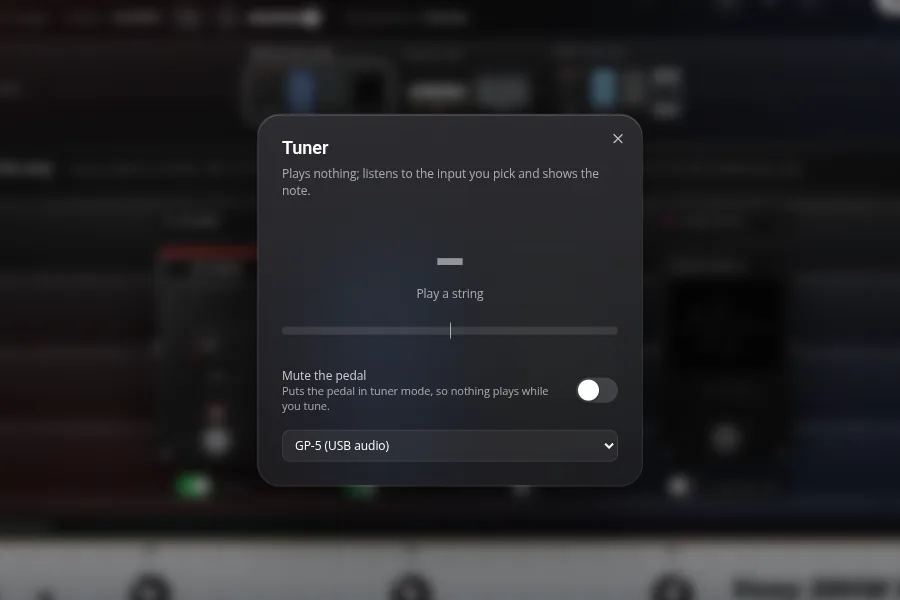
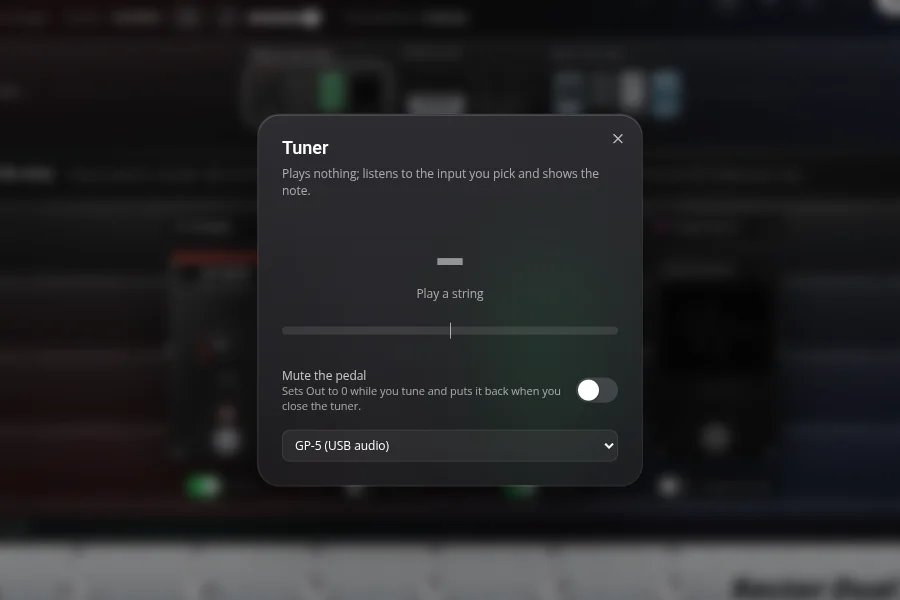
feat(rig): the tuner's Mute sets Out to 0 instead of using the GP-5 tuner mode
The Out (patch) volume has a driver on every model, so the switch now works on all seven pedals, and volume 0 is silent for certain. Closing the tuner puts the old value back, and nothing is left unsaved. This replaces the CC 58 version, which only the GP-5 and GP-50 had and which was never confirmed to mute.

diff --git a/app/src/renderer/src/screens/rig/Tuner.tsx b/app/src/renderer/src/screens/rig/Tuner.tsx
@@ -1,5 +1,4 @@
 import { useEffect, useRef, useState, type SVGProps } from "react";
-import { notifyError } from "@/app/notify";
 import { Switch } from "@/components/ui/switch";
 import { useDevice } from "@/state/device";
 import { Button } from "@/components/ui/button";
@@ -56,28 +55,29 @@ function TunerBody() {
   const [deviceId, setDeviceId] = useState<string | null>(null);
   const [note, setNote] = useState<(Note & { hz: number }) | null>(null);
   const [error, setError] = useState("");
-  const connected = useDevice((s) => s.status === "connected");
-  const canMute = useDevice((s) => s.status === "connected" && s.features.includes("tuner"));
+  const canMute = useDevice((s) => s.status === "connected" && s.preset !== null && s.busy === null);
   const [muted, setMuted] = useState(false);
-  const mutedNow = useRef(false);
+  // Mute sets the preset's Out volume to 0 and remembers the value for this slot, so it works on every model.
+  const before = useRef<{ slot: number; volume: number } | null>(null);
 
-  const mute = async (on: boolean) => {
-    try {
-      await useDevice.getState().setTuner(on);
-      mutedNow.current = on;
-      setMuted(on);
-    } catch (e) {
-      notifyError(on ? "Couldn't mute the pedal" : "Couldn't unmute the pedal", e);
-    }
+  const unmute = () => {
+    const was = before.current;
+    before.current = null;
+    // a different preset is active now (it has its own volume): nothing to put back
+    if (was && useDevice.getState().slot === was.slot) useDevice.getState().setVolume(was.volume);
   };
 
-  // Closing the tuner (this unmounts) always takes the pedal out of its tuner mode, so it never stays muted.
-  useEffect(
-    () => () => {
-      if (mutedNow.current) void useDevice.getState().setTuner(false).catch(() => {});
-    },
-    [],
-  );
+  const mute = (on: boolean) => {
+    const d = useDevice.getState();
+    if (on && d.preset && d.slot !== null) {
+      before.current = { slot: d.slot, volume: d.preset.volume };
+      d.setVolume(0);
+    } else unmute();
+    setMuted(on && before.current !== null);
+  };
+
+  // Closing the tuner (this unmounts) always puts the volume back.
+  useEffect(() => unmute, []);
 
   useEffect(() => {
     listInputs().then(
@@ -145,13 +145,10 @@ function TunerBody() {
         <label className="flex w-full items-center justify-between gap-3 text-sm text-silkscreen-2">
           <span>
             Mute the pedal
-            <span className="block text-xs text-silkscreen-3">Puts the pedal in tuner mode, so nothing plays while you tune.</span>
+            <span className="block text-xs text-silkscreen-3">Sets Out to 0 while you tune and puts it back when you close the tuner.</span>
           </span>
-          <Switch checked={muted} onCheckedChange={(on) => void mute(on)} aria-label="Mute the pedal while tuning" />
+          <Switch checked={muted} onCheckedChange={mute} aria-label="Mute the pedal while tuning" />
         </label>
-      )}
-      {connected && !canMute && (
-        <p className="text-xs text-pretty text-silkscreen-3">Tone Studio can't switch this pedal's own tuner on yet. To mute it while you tune, use the tuner on the pedal.</p>
       )}
       {error ? (
         <p className="text-sm text-led-fault">{error}</p>

diff --git a/app/src/renderer/src/state/device.tuner.test.ts b/app/src/renderer/src/state/device.tuner.test.ts
@@ -1,8 +1,9 @@
-// The pedal's tuner mode (the Tuner's Mute switch) exists only where the CC is documented: the GP-5 family. Every other
-// model must not offer it, and must refuse rather than send something it doesn't know.
+// The tuner's Mute switch sets the preset's Out volume to 0 and puts it back: it must work on every model and leave no
+// unsaved change behind once the volume is restored.
 import { readFileSync } from "node:fs";
 import { resolve } from "node:path";
 import { afterAll, describe, expect, it, vi } from "vitest";
+import { DEVICE_KEYS } from "@shared/devices";
 import { useDevice } from "./device";
 
 vi.stubGlobal("fetch", async (url: string) => new Response(readFileSync(resolve(`.${decodeURIComponent(url)}`))));
@@ -15,23 +16,20 @@ vi.stubGlobal("localStorage", {
 
 const store = () => useDevice.getState();
 
-describe("tuner mode", () => {
+describe("mute for tuning (Out volume)", () => {
   afterAll(async () => {
     await store().disconnect();
   });
 
-  it.each(["gp5", "gp50"] as const)("is offered on the %s", async (key) => {
+  it.each(DEVICE_KEYS)("silences the %s and leaves nothing unsaved after the restore", async (key) => {
     await store().connect("mock", { mockDevice: key });
-    expect(store().features).toContain("tuner");
-    await expect(store().setTuner(true)).resolves.toBeUndefined();
-    await expect(store().setTuner(false)).resolves.toBeUndefined();
-    await store().disconnect();
-  }, 30_000);
-
-  it.each(["gp200", "gp200lt", "gp200jr", "gp150", "gp180"] as const)("is not offered on the %s", async (key) => {
-    await store().connect("mock", { mockDevice: key });
-    expect(store().features).not.toContain("tuner");
-    await expect(store().setTuner(true)).rejects.toThrow(/can't do this/);
+    const volume = store().preset!.volume;
+    expect(store().unsavedChanges).toBe(0);
+    store().setVolume(0);
+    expect(store().preset!.volume).toBe(0);
+    store().setVolume(volume);
+    expect(store().preset!.volume).toBe(volume);
+    expect(store().unsavedChanges).toBe(0);
     await store().disconnect();
   }, 30_000);
 });

diff --git a/app/src/renderer/src/state/device-types.ts b/app/src/renderer/src/state/device-types.ts
@@ -200,9 +200,7 @@ export type DeviceFeature =
   /** Move a slot in the list, the ones in between shift (GP-50 11 5A) */
   | "movePreset"
   /** Global EQ values set one at a time (GP-200 family 0x1005) */
-  | "globalEq"
-  /** The pedal's own tuner mode, which mutes its output (MIDI CC 58, in the GP-5 and GP-50 CC maps) */
-  | "tuner";
+  | "globalEq";
 
 /**
  * Global EQ of the GP-200 family: the 31 values in the order of gp200/lib protocol GLOBAL_EQ_INDEX (ranges:
@@ -355,10 +353,7 @@ export interface DeviceState {
   /** Tempo, clamped to profileFor(device).tempo; live where the pedal takes it (liveBpm), else it reaches the pedal on save */
   setBpm(bpm: number): void;
   /** EXP settings of the active preset (needs the "exp" feature); every value is checked first (RangeError) */
-  setExp(edit: ExpEdit): void;
-  /** Turn the pedal's tuner mode on (its output is muted) or off (needs the "tuner" feature) */
-  setTuner(on: boolean): Promise<void>;
-  /**
+  setExp(edit: ExpEdit): void;  /**
    * Switch assignments, one block list per switch (PresetState.footswitches); live where the pedal takes it
    * (liveFootswitches), else on save. GP-50 presets allow at most 3 blocks per switch and a block on one switch only:
    * anything else throws RangeError and changes nothing.

diff --git a/app/src/renderer/src/app/overlays/WhatsNewDialog.tsx b/app/src/renderer/src/app/overlays/WhatsNewDialog.tsx
@@ -10,7 +10,7 @@ import rigTools from "@/assets/whats-new/rig-tools.webp";
 
 const SLIDES = [
   { title: "Setlists and a stage mode", text: "Put a gig's presets in order, with a note on each song. Stage mode fills the window with the current preset and the next one, and follows the footswitch. If a slot is overwritten, the list tells you and offers to follow the preset.", image: setlist },
-  { title: "A tuner, with a mute switch", text: "A chromatic tuner on the pedal's USB audio or any input. On the GP-5 and GP-50 a switch puts the pedal in tuner mode, so nothing plays while you tune.", image: tuner },
+  { title: "A tuner, with a mute switch", text: "A chromatic tuner on the pedal's USB audio or any input. A Mute switch sets Out to 0 while you tune and puts it back when you close the tuner.", image: tuner },
   { title: "A metronome, Randomize and Morph", text: "Click at the preset's tempo through the pedal's sound card, with its own volume. The shuffle button nudges every knob, or morphs the sound toward another preset. Both can be undone.", image: rigTools },
 ];
 

diff --git a/app/src/renderer/src/state/device.gp50-features.test.ts b/app/src/renderer/src/state/device.gp50-features.test.ts
@@ -56,7 +56,7 @@ describe("GP-50 features in the device store", () => {
   });
 
   it("offers every GP-50 feature on the simulator", () => {
-    expect([...store().features].sort()).toEqual(["copyPreset", "deletePreset", "exp", "exportPreset", "liveBpm", "liveFootswitches", "liveOrder", "modified", "movePreset", "sync", "tuner"]);
+    expect([...store().features].sort()).toEqual(["copyPreset", "deletePreset", "exp", "exportPreset", "liveBpm", "liveFootswitches", "liveOrder", "modified", "movePreset", "sync"]);
     expect(store().lockedFeatures).toEqual([]);
     expect(store().preset?.exp).not.toBeNull();
   });
@@ -184,7 +184,7 @@ describe("GP-50 features in the device store", () => {
     });
 
     it("locks the reverse-engineered features and keeps the documented ones", () => {
-      expect([...store().features].sort()).toEqual(["modified", "sync", "tuner"]);
+      expect([...store().features].sort()).toEqual(["modified", "sync"]);
       expect(store().lockedFeatures).toContain("exp");
       expect(store().can("liveOrder")).toBe(false);
     });

diff --git a/app/src/renderer/src/state/driver/gp5-driver.ts b/app/src/renderer/src/state/driver/gp5-driver.ts
@@ -31,9 +31,6 @@ const GP50_FEATURES: readonly DeviceFeature[] = Object.freeze([
   "movePreset",
 ] satisfies DeviceFeature[]);
 
-/** The GP-5 has no GP-50 extras, but both take the tuner CC (58). */
-const TUNER_ONLY: readonly DeviceFeature[] = Object.freeze(["tuner"] satisfies DeviceFeature[]);
-
 const loadFixtures = async (urls: Record<string, string>): Promise<Uint8Array[]> =>
   Promise.all(Object.keys(urls).sort().map(async (f) => new Uint8Array(await (await fetch(urls[f])).arrayBuffer())));
 
@@ -129,11 +126,7 @@ export class Gp5Driver implements DeviceDriver {
   }
 
   get features(): readonly DeviceFeature[] {
-    return this.#session.device === "gp50" ? [...GP50_FEATURES, "tuner"] : TUNER_ONLY;
-  }
-
-  async setTuner(on: boolean): Promise<void> {
-    await this.#session.setTuner(on);
+    return this.#session.device === "gp50" ? GP50_FEATURES : [];
   }
 
   identify(): Promise<DeviceKey> {

diff --git a/app/src/renderer/src/state/driver/types.ts b/app/src/renderer/src/state/driver/types.ts
@@ -119,8 +119,6 @@ export interface DeviceDriver {
   readModified?(): Promise<boolean>;
   /** "exportPreset": stored preset of `slot` as a full .prst, without selecting it. */
   exportPreset?(slot: number): Promise<Uint8Array>;
-  /** "tuner": the pedal's tuner mode on or off; while on it mutes the output. */
-  setTuner?(on: boolean): Promise<void>;
   /** "liveBpm": tempo of the active preset, 40..260. */
   setBpm?(bpm: number): Promise<void>;
   /** "exp": the given EXP fields of the active preset (values checked first). */

diff --git a/app/src/renderer/src/state/device.ts b/app/src/renderer/src/state/device.ts
@@ -607,12 +607,6 @@ export const useDevice = create<DeviceState>((set, get) => {
       if (d?.setBpm) sends.push("setting:bpm", () => d.setBpm!(v));
     },
 
-    async setTuner(on) {
-      const d = requireFeature("tuner");
-      requireIdle();
-      await d.setTuner!(on);
-    },
-
     setExp(edit) {
       const p = get().preset;
       if (!p?.exp) throw new DeviceError("unsafe", `${p ? `${pedalName(p.device)} presets have` : "This preset has"} no EXP settings`);

diff --git a/CHANGELOG.md b/CHANGELOG.md
@@ -5,7 +5,7 @@ All notable changes to VLTN Tone Studio. Versions match `app/package.json` and t
 ## [0.9.0] - 2026-11-04
 
 ### Added
-- **A tuner on the Rig.** The new *Tuner* button (tuning fork) opens a chromatic tuner: it shows the note, the frequency in Hz and how many cents sharp or flat you are, and turns green when you are within 5 cents. It listens to the pedal's USB audio by default, or any audio input you pick. It plays nothing and doesn't touch the preset. On the GP-5 and GP-50 a *Mute the pedal* switch puts the pedal in its own tuner mode (MIDI CC 58) so nothing plays while you tune, and the tuner always switches it off again when you close it. The other models (GP-150, GP-180, GP-200, GP-200LT, GP-200JR) have no tuner command the app knows, so the switch is hidden there and the tuner still works; use the pedal's own tuner to mute them.
+- **A tuner on the Rig.** The new *Tuner* button (tuning fork) opens a chromatic tuner: it shows the note, the frequency in Hz and how many cents sharp or flat you are, and turns green when you are within 5 cents. It listens to the pedal's USB audio by default, or any audio input you pick. It plays nothing and doesn't touch the preset. A *Mute the pedal* switch sets the preset's Out volume to 0 while you tune and puts the old value back when you close the tuner, so nothing plays and nothing is left unsaved. It works on every supported pedal.
 - **A metronome.** The clock button next to *Tap* clicks at the preset's tempo, and a tempo change while it runs is heard on the next beat. It plays through the pedal's USB sound card when the pedal is connected, otherwise through the system output, and says which in a toast. A volume slider sits next to it and is remembered.
 - **Setlists and a stage mode.** A new *Setlist* screen holds ordered lists of pedal presets for a gig, one set per pedal model, with a note on every song, reordering by drag or arrow buttons, and JSON export and import. A preset remembers its name, so when a slot is overwritten the list warns you and offers to follow the preset to its new slot or to take the new one. *Stage mode* fills the window with the current preset's name, your note and the next preset; → / Space / Page Down play the next one, ← / Page Up the previous, Esc leaves, and it follows the footswitch.
 - **Tags, star ratings and search by model in the Library.** Rate presets on this computer, tag them, and filter the list by name, tag, a model in the chain or stars (`plexi clean stars:4`).
